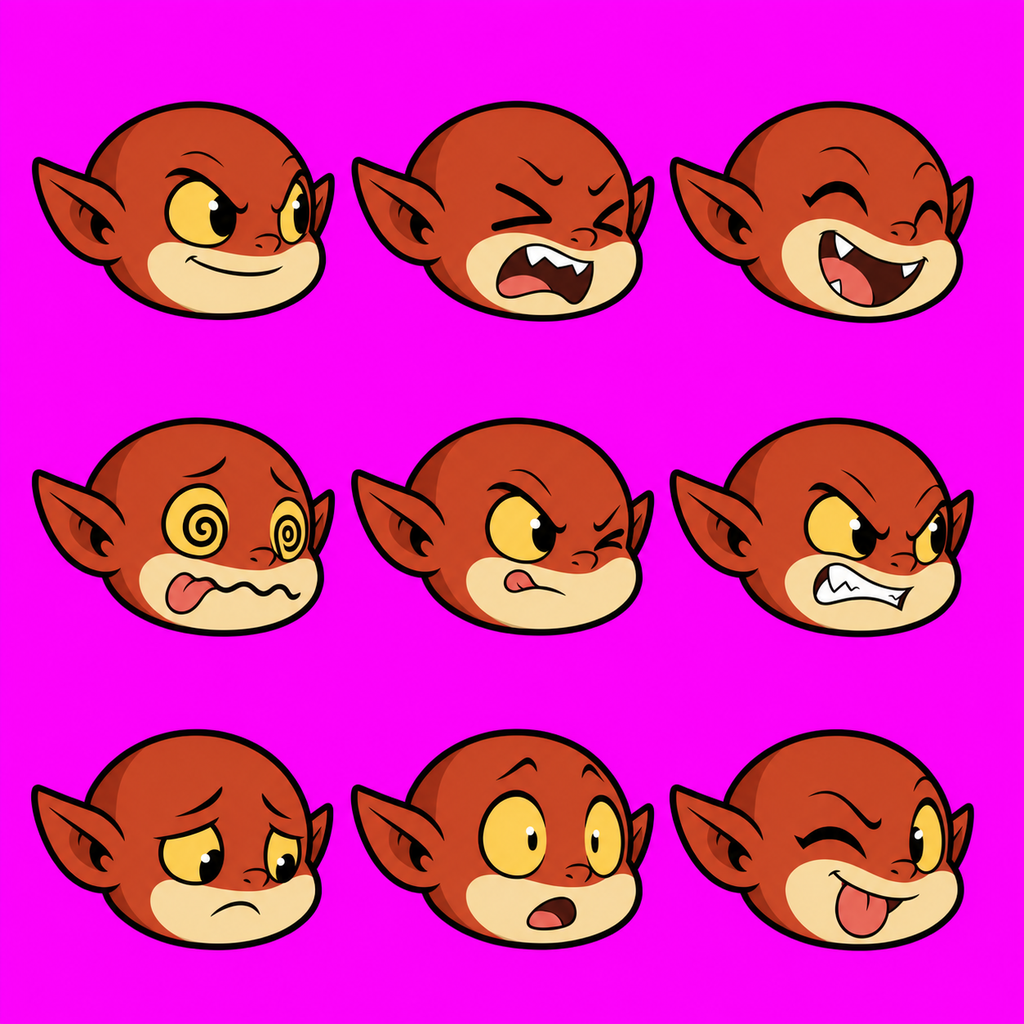
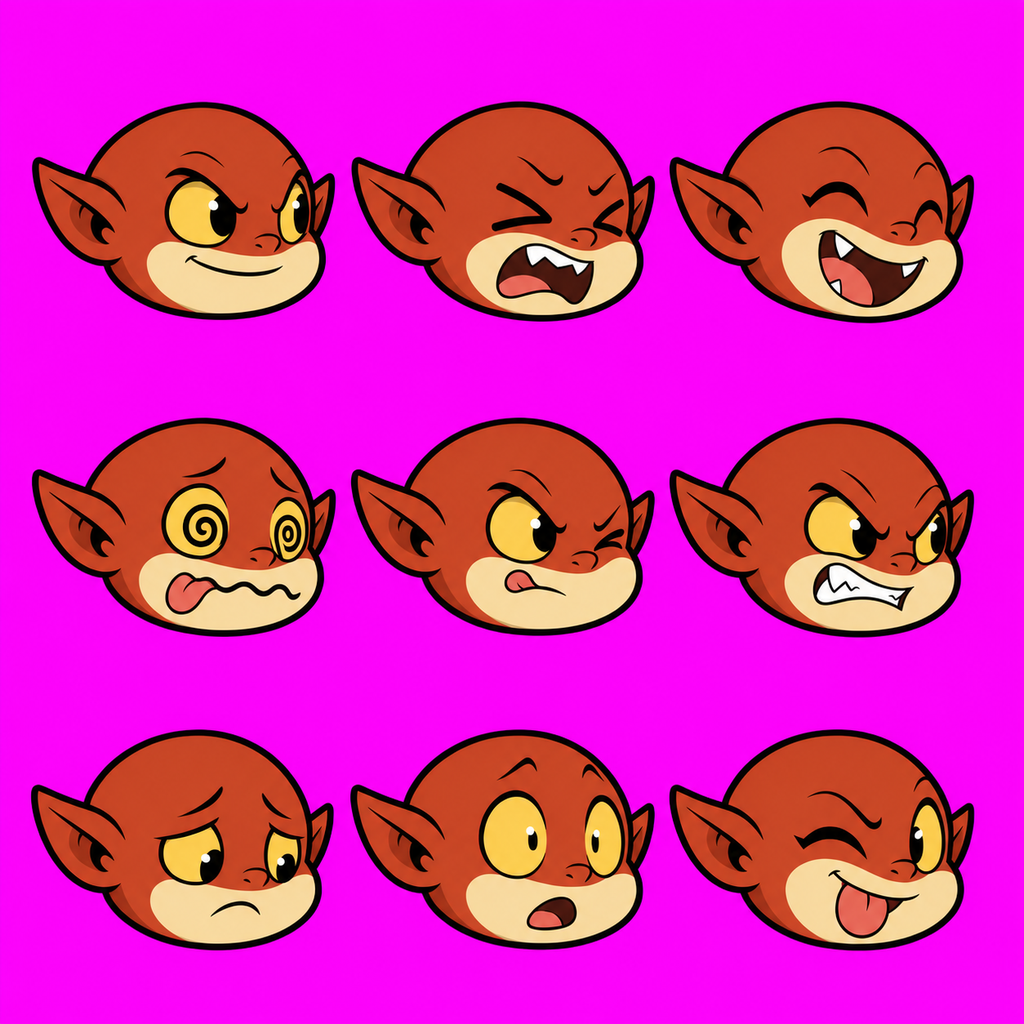
WB-041: le teste senza corna scelte (variante 2)
Claude-Session: https://claude.ai/code/session_01XmXLjkXSsP91qD4hLjHSCG

diff --git a/docs/handoff/WB-041_vuoto_elmo_corazza_stivali.md b/docs/handoff/WB-041_vuoto_elmo_corazza_stivali.md
@@ -19,7 +19,7 @@ cappuccio, come nella tavola del Vuoto; la fiamma esce dal cappuccio fra le corn
 | Codice | File | Cos'è |
 |---|---|---|
 | R1 | `art/WB-041/riferimenti/R1_corpo_collo_nudo.png` | il foglio del corpo di WB-037 (`corpo_1`): busto col collo nudo, braccia, gambe, coda, pugno |
-| R2 | `art/WB-041/riferimenti/R2_teste_senza_corna.png` | le nove teste senza corna di WB-039 |
+| R2 | `art/WB-041/riferimenti/R2_teste_senza_corna.png` | le nove teste senza corna di WB-039 (`teste_senza_corna_2`, quelle scelte) |
 | R3 | `art/WB-019/scelti/vuoto.png` | la tavola scelta del Vuoto: a sinistra base, a destra forgiata |
 
 ## Immagini da generare
